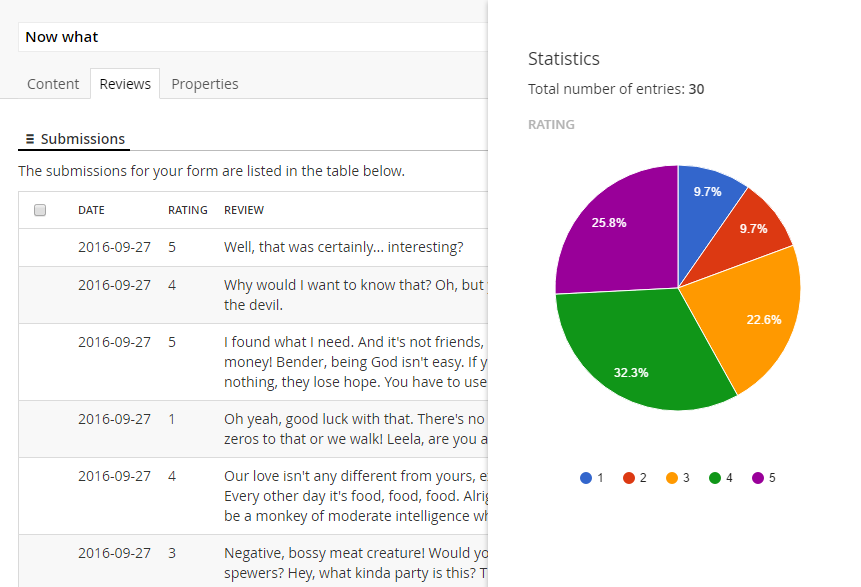
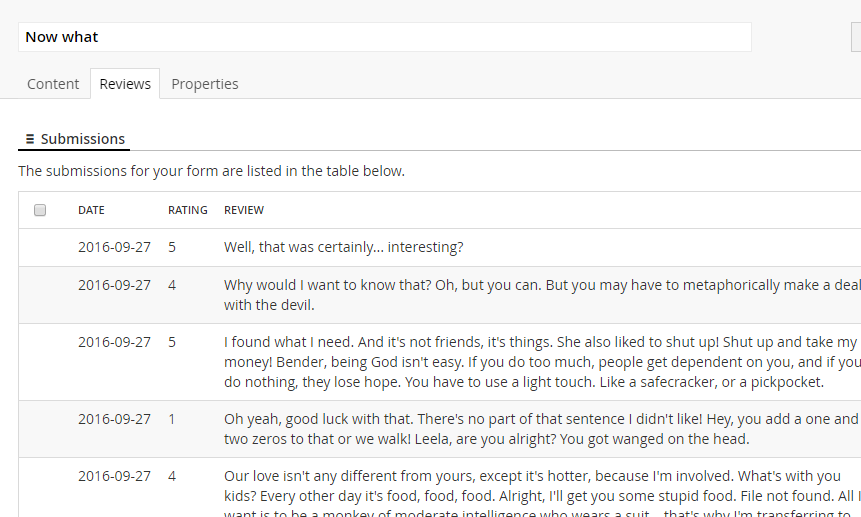
Finish part three

diff --git a/Tutorials/Ratings.md b/Tutorials/Ratings.md
@@ -253,10 +253,8 @@ You should probably consider adding spam protecting to the review form, to ensur
 ## Alright... so what now?
 This tutorial outlines a fully functional review system that could be put to use as-is. However, it could be improved on a few points.
 
-The editorial experience is not exactly ideal, since the editors have to create the review form each time they create an article. 
+The rendering of the *Rating* field feels a little off, since it messes with the default radio button group rendering and involves hard coding the rating field name. We'll address this in [part two](RatingsPartTwo.md) of this tutorial, where we'll create a custom field for the rating stars.
 
-Also, the rendering of the *Rating* field feels a little off, since it messes with the default radio button group rendering and involves hard coding the rating field name. 
+Also, the editorial experience is not exactly ideal, since the editors have to create the review form each time they create an article. This is mended in [part three](RatingsPartThree.md), where we'll have a look at how we can  create the form layout automatically.
 
-In [Part two](RatingsPartTwo.md) of this tutorial we'll create a custom rating field to handle the rendering issue.
-
-In the upcoming parts of this tutorial we'll address the editorial experience, and we'll also have a look at some other cool things we can do with the Form Editor extension points.
+Finally, in the upcoming part four we'll have a look at some other cool things we can do with the Form Editor extension points.

diff --git a/Tutorials/RatingsPartThree.md b/Tutorials/RatingsPartThree.md
@@ -145,11 +145,15 @@ Disable all tabs except the "Submissions" tab in the "Tab order and availability
 
 ![Tab order and availability](img/RatingsPartThree/tab order and availability.png)
 
-And while you're at it, tick "Hide label". Now open your *Article* page and switch to the *Reviews* tab. Much better! 
+And while you're at it, tick "Hide label". Now open your *Article* page and switch to the *Reviews* tab... much better! 
 
 ![Submissions tab](img/RatingsPartThree/review form property.png)
 
-(in case you're wondering... the statistics are shown when you hit the *Statistics* button just below the submissions)
+Since the rating field supports statistics, your editors can hit the *Statistics* button just below the submissions and view the spread between the actual rating values (1 through 5). Pretty sweet, isn't it?
+
+![Submission statistics](img/RatingsPartThree/review form property statistics.png)
 
 ## Closing remarks
-TODO
+This part of the tutorial should give you an idea of how you can help your editors, both in terms of automation and the editorial experience. We've ended up with a rating system that "just works" without troubling the editors at all with the details of how and why. 
+
+In the upcoming (probably last) part of this tutorial we'll have a look at how you can reuse the ratings when listing articles. Until then, happy coding!

diff --git a/Tutorials/RatingsPartTwo.md b/Tutorials/RatingsPartTwo.md
@@ -214,3 +214,5 @@ If everything goes as planned, the page shouldn't look any different in frontend
 Since our custom field is set up with the same field values as we did the radio buttons in part one, the field value statistics that we already gathered for our article are automatically adapted by the custom field.
 
 You can go ahead and undo the changes made to the *Radio button group* rendering - if you didn't make a backup you can find the original [here](../Source/Umbraco/Views/Partials/FormEditor/FieldsSync/core.radiobuttongroup.cshtml).
+
+Are you up for more? The go to [part three](RatingsPartThree.md) of this tutorial and have a look at how we can automate some of the editor workload.
